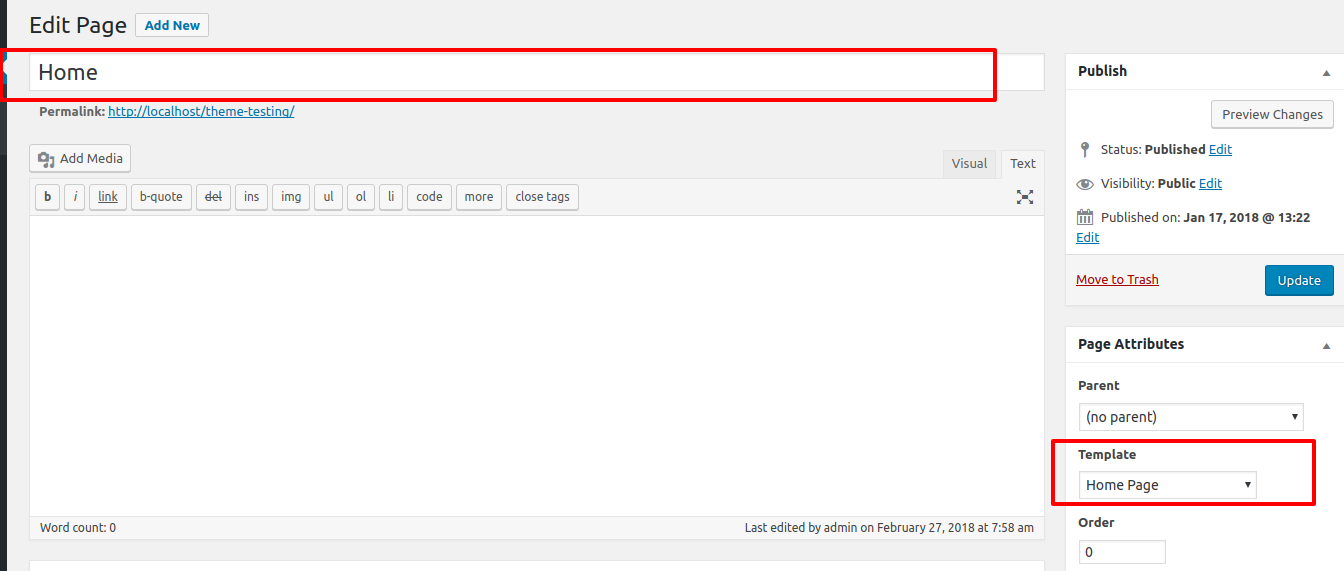
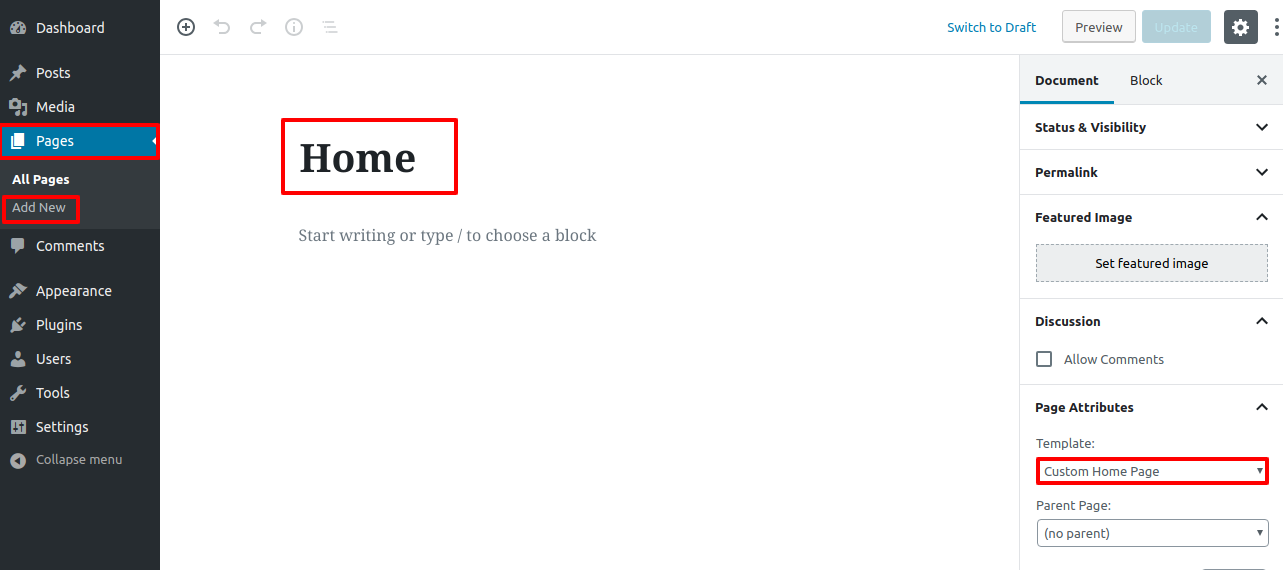
New version of Automotive Centre - 0.4.7

diff --git a/style.css b/style.css
@@ -6,7 +6,7 @@ Author URI: https://www.vwthemes.com/
 Description: Our Automotive WordPress Theme is designed to be stylish and classy, much like all our beloved cars. This exclusive theme is developed especially for car dealership, Motorhome, Travel Trailer, Lifts, Trators, Forklift, Campers, Lift Trucks, MotoSnow, Snow Motorcycle, Motorbike Motor Full, Agriculture Equipment and similar businesses. We aid this multi-purpose responsive theme while keeping the motor-heads in mind and what will appeal to the people the most. Our WordPress theme makes the use of secure and clean codes, you can easily customize our theme as per your wishes. You can even add or remove anything that you may or may not like. With ample of personalization options, optimized codes, call to action button (CTA), beautiful banners, useful shortcodes, numerous styling options, it is the best professional WordPress theme to grab. You will get an interactive demo, responsive slider, display options, SEO friendly features, social media icons, and a bunch of other phenomenal features with this supreme theme. Furthermore, built on Bootstrap framework, the theme will ease the web development. No matter what kind of automobile industry or services you offer, our Automobile theme is made for the gear-heads like you. Whether you sell used car, deal in motorbikes, motorcycles, small cars, trucks, cab service, automobile blogger, own a car review website, run a garage, repair service, own a showroom, run a driving school and etc., this highly interactive, WooCommerce compatible, user-friendly, and multipurpose ecommerce theme will fit perfectly for you. Demo at: https://www.vwthemes.net/vw-automotive-pro/
 Tested up to: 5.5.1
 Requires PHP: 7.2.14
-Version: 0.4.6
+Version: 0.4.7
 License: GPLv3.0 or later
 License URI: http://www.gnu.org/licenses/gpl-v3.0.html
 Text Domain: automotive-centre

diff --git a/inc/getstart/getstart.css b/inc/getstart/getstart.css
@@ -236,6 +236,12 @@ td.update-link a {
 .row-box a {
     text-decoration: none;
 }
+a.doc-links {
+    color: #004c75;
+}
+a.doc-links:hover {
+    color: #00a0d2;
+}
 /*welcome */
 .welcome-notice h3 {
 	margin: 0;

diff --git a/inc/getstart/getstart.php b/inc/getstart/getstart.php
@@ -115,6 +115,15 @@ function automotive_centre_mostrar_guide() {
 								<span class="dashicons dashicons-screenoptions"></span><a href="<?php echo esc_url( admin_url('customize.php?autofocus[panel]=widgets') ); ?>" target="_blank"><?php esc_html_e('Footer Widget','automotive-centre'); ?></a>
 							</div>
 						</div>
+
+						<div class="row-box">
+							<div class="row-box1">
+								<span class="dashicons dashicons-images-alt"></span><a href="<?php echo esc_url( admin_url('customize.php?autofocus[section]=automotive_centre_post_settings') ); ?>" target="_blank"><?php esc_html_e('Post settings','automotive-centre'); ?></a>
+							</div>
+							 <div class="row-box2">
+								<span class="dashicons dashicons-align-center"></span><a href="<?php echo esc_url( admin_url('customize.php?autofocus[section]=automotive_centre_woocommerce_section') ); ?>" target="_blank"><?php esc_html_e('WooCommerce Layout','automotive-centre'); ?></a>
+							</div> 
+						</div>
 						
 						<div class="row-box">
 							<div class="row-box1">
@@ -132,14 +141,16 @@ function automotive_centre_mostrar_guide() {
 			  	<hr class="h3hr">
 				<p><?php esc_html_e('Follow these instructions to setup Home page.','automotive-centre'); ?></p>
                 <ul>
-                	<li><?php esc_html_e('1. Create a Page to set template:  Go to ','automotive-centre'); ?>
-                  	<b><?php esc_html_e('Dashboard &gt;&gt; Pages &gt;&gt; Add New Page','automotive-centre'); ?></b>.
-                  	<p><?php esc_html_e('Label it "home" or anything as you wish. Then select template "home-page" from template dropdown.','automotive-centre'); ?></p></li>
+                  	<p><span class="strong"><?php esc_html_e('1. Create a new page :','automotive-centre'); ?></span><?php esc_html_e(' Go to ','automotive-centre'); ?>
+				  	<b><?php esc_html_e(' Dashboard >> Pages >> Add New Page','automotive-centre'); ?></b></p>
+
+                  	<p><?php esc_html_e('Name it as "Home" then select the template "Custom Home Page".','automotive-centre'); ?></p>
                   	<img src="<?php echo esc_url(get_template_directory_uri()); ?>/inc/getstart/images/home-page-template.png" alt="" />
-                  	<p></p><span class="strong"><?php esc_html_e('2. Set the front page:','automotive-centre'); ?></span><?php esc_html_e(' Go to ','automotive-centre'); ?>
-				  	<b><?php esc_html_e(' Settings -&gt; Reading --&gt; Set the front page display static page to home page ','automotive-centre'); ?></b></p>
+                  	<p><span class="strong"><?php esc_html_e('2. Set the front page:','automotive-centre'); ?></span><?php esc_html_e(' Go to ','automotive-centre'); ?>
+				  	<b><?php esc_html_e(' Settings >> Reading ','automotive-centre'); ?></b></p>
+				  	<p><?php esc_html_e('Select the option of Static Page, now select the page you created to be the homepage, while another page to be your default page.','automotive-centre'); ?></p>
                   	<img src="<?php echo esc_url(get_template_directory_uri()); ?>/inc/getstart/images/set-front-page.png" alt="" />
-                  	<p><?php esc_html_e(' Once you are done with this, you can see all the demo content on front page. ','automotive-centre'); ?></p>
+                  	<p><?php esc_html_e(' Once you are done with this, then follow the','automotive-centre'); ?> <a class="doc-links" href="https://www.vwthemesdemo.com/docs/free-automotive/" target="_blank"><?php esc_html_e('Documentation','automotive-centre'); ?></a></p>
                 </ul>
 		  	</div>
 		</div>	
@@ -212,111 +223,146 @@ function automotive_centre_mostrar_guide() {
 								<td class="table-img"><?php esc_html_e('1', 'automotive-centre'); ?></td>
 							</tr>
 							<tr>
+								<td><?php esc_html_e('Theme sections', 'automotive-centre'); ?></td>
+								<td class="table-img"><?php esc_html_e('2', 'automotive-centre'); ?></td>
+								<td class="table-img"><?php esc_html_e('14', 'automotive-centre'); ?></td>
+							</tr>
+							<tr class="odd">
 								<td><?php esc_html_e('Contact us Page Template', 'automotive-centre'); ?></td>
 								<td class="table-img">0</td>
 								<td class="table-img"><?php esc_html_e('1', 'automotive-centre'); ?></td>
 							</tr>
-							<tr class="odd">
+							<tr>
 								<td><?php esc_html_e('Blog Templates & Layout', 'automotive-centre'); ?></td>
 								<td class="table-img">0</td>
 								<td class="table-img"><?php esc_html_e('3(Full width/Left/Right Sidebar)', 'automotive-centre'); ?></td>
 							</tr>
-							<tr>
+							<tr class="odd">
 								<td><?php esc_html_e('Page Templates & Layout', 'automotive-centre'); ?></td>
 								<td class="table-img">0</td>
 								<td class="table-img"><?php esc_html_e('2(Left/Right Sidebar)', 'automotive-centre'); ?></td>
 							</tr>
+							<tr>
+								<td><?php esc_html_e('Color Pallete For Particular Sections', 'automotive-centre'); ?></td>
+								<td class="table-img"><img src="<?php echo esc_url(get_template_directory_uri()); ?>/inc/getstart/images/w-arrow.png" alt="" /></td>
+								<td class="table-img"><img src="<?php echo esc_url(get_template_directory_uri()); ?>/inc/getstart/images/right-arrow.png" alt="" /></td>
+							</tr>
 							<tr class="odd">
+								<td><?php esc_html_e('Global Color Option', 'automotive-centre'); ?></td>
+								<td class="table-img"><img src="<?php echo esc_url(get_template_directory_uri()); ?>/inc/getstart/images/right-arrow.png" alt="" /></td>
+								<td class="table-img"><img src="<?php echo esc_url(get_template_directory_uri()); ?>/inc/getstart/images/right-arrow.png" alt="" /></td>
+							</tr>
+							<tr>
+								<td><?php esc_html_e('Section Reordering', 'automotive-centre'); ?></td>
+								<td class="table-img"><img src="<?php echo esc_url(get_template_directory_uri()); ?>/inc/getstart/images/w-arrow.png" alt="" /></td>
+								<td class="table-img"><img src="<?php echo esc_url(get_template_directory_uri()); ?>/inc/getstart/images/right-arrow.png" alt="" /></td>
+							</tr>
+							<tr class="odd">
+								<td><?php esc_html_e('Demo Importer', 'automotive-centre'); ?></td>
+								<td class="table-img"><img src="<?php echo esc_url(get_template_directory_uri()); ?>/inc/getstart/images/w-arrow.png" alt="" /></td>
+								<td class="table-img"><img src="<?php echo esc_url(get_template_directory_uri()); ?>/inc/getstart/images/right-arrow.png" alt="" /></td>
+							</tr>
+							<tr>
+								<td><?php esc_html_e('Allow To Set Site Title, Tagline, Logo', 'automotive-centre'); ?></td>
+								<td class="table-img"><img src="<?php echo esc_url(get_template_directory_uri()); ?>/inc/getstart/images/w-arrow.png" alt="" /></td>
+								<td class="table-img"><img src="<?php echo esc_url(get_template_directory_uri()); ?>/inc/getstart/images/right-arrow.png" alt="" /></td>
+							</tr>
+							<tr class="odd">
+								<td><?php esc_html_e('Enable Disable Options On All Sections, Logo', 'automotive-centre'); ?></td>
+								<td class="table-img"><img src="<?php echo esc_url(get_template_directory_uri()); ?>/inc/getstart/images/w-arrow.png" alt="" /></td>
+								<td class="table-img"><img src="<?php echo esc_url(get_template_directory_uri()); ?>/inc/getstart/images/right-arrow.png" alt="" /></td>
+							</tr>
+							<tr>
 								<td><?php esc_html_e('Full Documentation', 'automotive-centre'); ?></td>
 								<td class="table-img"><img src="<?php echo esc_url(get_template_directory_uri()); ?>/inc/getstart/images/right-arrow.png" alt="" /></td>
 								<td class="table-img"><img src="<?php echo esc_url(get_template_directory_uri()); ?>/inc/getstart/images/right-arrow.png" alt="" /></td>
 							</tr>
-							<tr>
+							<tr class="odd">
 								<td><?php esc_html_e('Latest WordPress Compatibility', 'automotive-centre'); ?></td>
 								<td class="table-img"><img src="<?php echo esc_url(get_template_directory_uri()); ?>/inc/getstart/images/right-arrow.png" alt="" /></td>
 								<td class="table-img"><img src="<?php echo esc_url(get_template_directory_uri()); ?>/inc/getstart/images/right-arrow.png" alt="" /></td>
 							</tr>
-							<tr class="odd">
+							<tr>
 								<td><?php esc_html_e('Woo-Commerce Compatibility', 'automotive-centre'); ?></td>
 								<td class="table-img"><img src="<?php echo esc_url(get_template_directory_uri()); ?>/inc/getstart/images/right-arrow.png" alt="" /></td>
 								<td class="table-img"><img src="<?php echo esc_url(get_template_directory_uri()); ?>/inc/getstart/images/right-arrow.png" alt="" /></td>
 							</tr>
-							<tr>
+							<tr class="odd">
 								<td><?php esc_html_e('Support 3rd Party Plugins', 'automotive-centre'); ?></td>
 								<td class="table-img"><img src="<?php echo esc_url(get_template_directory_uri()); ?>/inc/getstart/images/right-arrow.png" alt="" /></td>
 								<td class="table-img"><img src="<?php echo esc_url(get_template_directory_uri()); ?>/inc/getstart/images/right-arrow.png" alt="" /></td>
 							</tr>
-							<tr class="odd">
+							<tr>
 								<td><?php esc_html_e('Secure and Optimized Code', 'automotive-centre'); ?></td>
 								<td class="table-img"><img src="<?php echo esc_url(get_template_directory_uri()); ?>/inc/getstart/images/right-arrow.png" alt="" /></td>
 								<td class="table-img"><img src="<?php echo esc_url(get_template_directory_uri()); ?>/inc/getstart/images/right-arrow.png" alt="" /></td>
 							</tr>
-							<tr>
+							<tr class="odd">
 								<td><?php esc_html_e('Exclusive Functionalities', 'automotive-centre'); ?></td>
 								<td class="table-img"><img src="<?php echo esc_url(get_template_directory_uri()); ?>/inc/getstart/images/w-arrow.png" alt="" /></td>
 								<td class="table-img"><img src="<?php echo esc_url(get_template_directory_uri()); ?>/inc/getstart/images/right-arrow.png" alt="" /></td>
 							</tr>
-							<tr class="odd">
+							<tr>
 								<td><?php esc_html_e('Section Enable / Disable', 'automotive-centre'); ?></td>
 								<td class="table-img"><img src="<?php echo esc_url(get_template_directory_uri()); ?>/inc/getstart/images/w-arrow.png" alt="" /></td>
 								<td class="table-img"><img src="<?php echo esc_url(get_template_directory_uri()); ?>/inc/getstart/images/right-arrow.png" alt="" /></td>
 							</tr>
-							<tr>
+							<tr class="odd">
 								<td><?php esc_html_e('Section Google Font Choices', 'automotive-centre'); ?></td>
 								<td class="table-img"><img src="<?php echo esc_url(get_template_directory_uri()); ?>/inc/getstart/images/w-arrow.png" alt="" /></td>
 								<td class="table-img"><img src="<?php echo esc_url(get_template_directory_uri()); ?>/inc/getstart/images/right-arrow.png" alt="" /></td>
 							</tr>
-							<tr class="odd">
+							<tr>
 								<td><?php esc_html_e('Gallery', 'automotive-centre'); ?></td>
 								<td class="table-img"><img src="<?php echo esc_url(get_template_directory_uri()); ?>/inc/getstart/images/w-arrow.png" alt="" /></td>
 								<td class="table-img"><img src="<?php echo esc_url(get_template_directory_uri()); ?>/inc/getstart/images/right-arrow.png" alt="" /></td>
 							</tr>
-							<tr>
+							<tr class="odd">
 								<td><?php esc_html_e('Simple & Mega Menu Option', 'automotive-centre'); ?></td>
 								<td class="table-img"><img src="<?php echo esc_url(get_template_directory_uri()); ?>/inc/getstart/images/w-arrow.png" alt="" /></td>
 								<td class="table-img"><img src="<?php echo esc_url(get_template_directory_uri()); ?>/inc/getstart/images/right-arrow.png" alt="" /></td>
 							</tr>
-							<tr class="odd">
+							<tr>
 								<td><?php esc_html_e('Support to add custom CSS / JS ', 'automotive-centre'); ?></td>
 								<td class="table-img"><img src="<?php echo esc_url(get_template_directory_uri()); ?>/inc/getstart/images/w-arrow.png" alt="" /></td>
 								<td class="table-img"><img src="<?php echo esc_url(get_template_directory_uri()); ?>/inc/getstart/images/right-arrow.png" alt="" /></td>
 							</tr>
-							<tr>
+							<tr class="odd">
 								<td><?php esc_html_e('Shortcodes', 'automotive-centre'); ?></td>
 								<td class="table-img"><img src="<?php echo esc_url(get_template_directory_uri()); ?>/inc/getstart/images/w-arrow.png" alt="" /></td>
 								<td class="table-img"><img src="<?php echo esc_url(get_template_directory_uri()); ?>/inc/getstart/images/right-arrow.png" alt="" /></td>
 							</tr>
-							<tr class="odd">
+							<tr>
 								<td><?php esc_html_e('Custom Background, Colors, Header, Logo & Menu', 'automotive-centre'); ?></td>
 								<td class="table-img"><img src="<?php echo esc_url(get_template_directory_uri()); ?>/inc/getstart/images/w-arrow.png" alt="" /></td>
 								<td class="table-img"><img src="<?php echo esc_url(get_template_directory_uri()); ?>/inc/getstart/images/right-arrow.png" alt="" /></td>
 							</tr>
-							<tr>
+							<tr class="odd">
 								<td><?php esc_html_e('Premium Membership', 'automotive-centre'); ?></td>
 								<td class="table-img"><img src="<?php echo esc_url(get_template_directory_uri()); ?>/inc/getstart/images/w-arrow.png" alt="" /></td>
 								<td class="table-img"><img src="<?php echo esc_url(get_template_directory_uri()); ?>/inc/getstart/images/right-arrow.png" alt="" /></td>
 							</tr>
-							<tr class="odd">
+							<tr>
 								<td><?php esc_html_e('Budget Friendly Value', 'automotive-centre'); ?></td>
 								<td class="table-img"><img src="<?php echo esc_url(get_template_directory_uri()); ?>/inc/getstart/images/w-arrow.png" alt="" /></td>
 								<td class="table-img"><img src="<?php echo esc_url(get_template_directory_uri()); ?>/inc/getstart/images/right-arrow.png" alt="" /></td>
 							</tr>
-							<tr>
+							<tr class="odd">
 								<td><?php esc_html_e('Priority Error Fixing', 'automotive-centre'); ?></td>
 								<td class="table-img"><img src="<?php echo esc_url(get_template_directory_uri()); ?>/inc/getstart/images/w-arrow.png" alt="" /></td>
 								<td class="table-img"><img src="<?php echo esc_url(get_template_directory_uri()); ?>/inc/getstart/images/right-arrow.png" alt="" /></td>
 							</tr>
-							<tr class="odd">
+							<tr>
 								<td><?php esc_html_e('Custom Feature Addition', 'automotive-centre'); ?></td>
 								<td class="table-img"><img src="<?php echo esc_url(get_template_directory_uri()); ?>/inc/getstart/images/w-arrow.png" alt="" /></td>
 								<td class="table-img"><img src="<?php echo esc_url(get_template_directory_uri()); ?>/inc/getstart/images/right-arrow.png" alt="" /></td>
 							</tr>
-							<tr>
+							<tr class="odd">
 								<td><?php esc_html_e('All Access Theme Pass', 'automotive-centre'); ?></td>
 								<td class="table-img"><img src="<?php echo esc_url(get_template_directory_uri()); ?>/inc/getstart/images/w-arrow.png" alt="" /></td>
 								<td class="table-img"><img src="<?php echo esc_url(get_template_directory_uri()); ?>/inc/getstart/images/right-arrow.png" alt="" /></td>
 							</tr>
-							<tr class="odd">
+							<tr>
 								<td><?php esc_html_e('Seamless Customer Support', 'automotive-centre'); ?></td>
 								<td class="table-img"><img src="<?php echo esc_url(get_template_directory_uri()); ?>/inc/getstart/images/w-arrow.png" alt="" /></td>
 								<td class="table-img"><img src="<?php echo esc_url(get_template_directory_uri()); ?>/inc/getstart/images/right-arrow.png" alt="" /></td>

diff --git a/inc/section-pro.php b/inc/section-pro.php
@@ -65,7 +65,7 @@ class Automotive_Centre_Customize_Section_Pro extends WP_Customize_Section {
 				{{ data.title }}
 
 				<# if ( data.pro_text && data.pro_url ) { #>
-					<a href="{{ data.pro_url }}" class="button button-secondary alignright">{{ data.pro_text }}</a>
+					<a target="_blank" href="{{ data.pro_url }}" class="button button-secondary alignright">{{ data.pro_text }}</a>
 				<# } #>
 			</h3>
 		</li>
